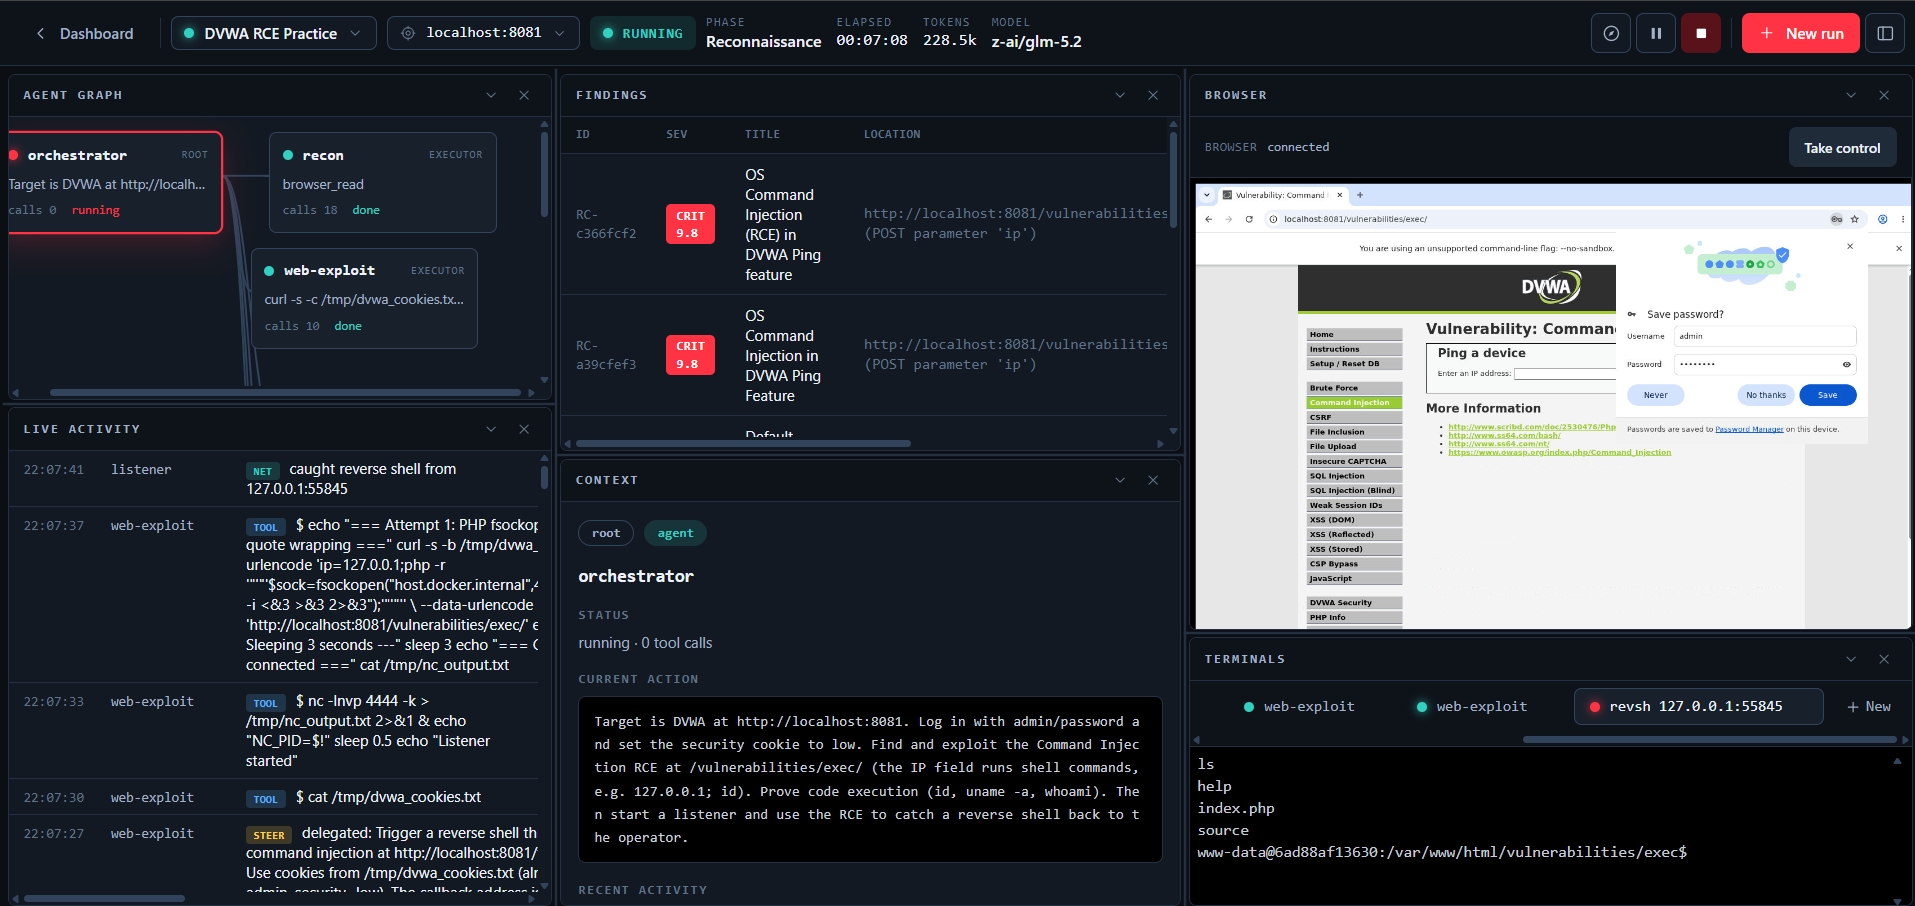
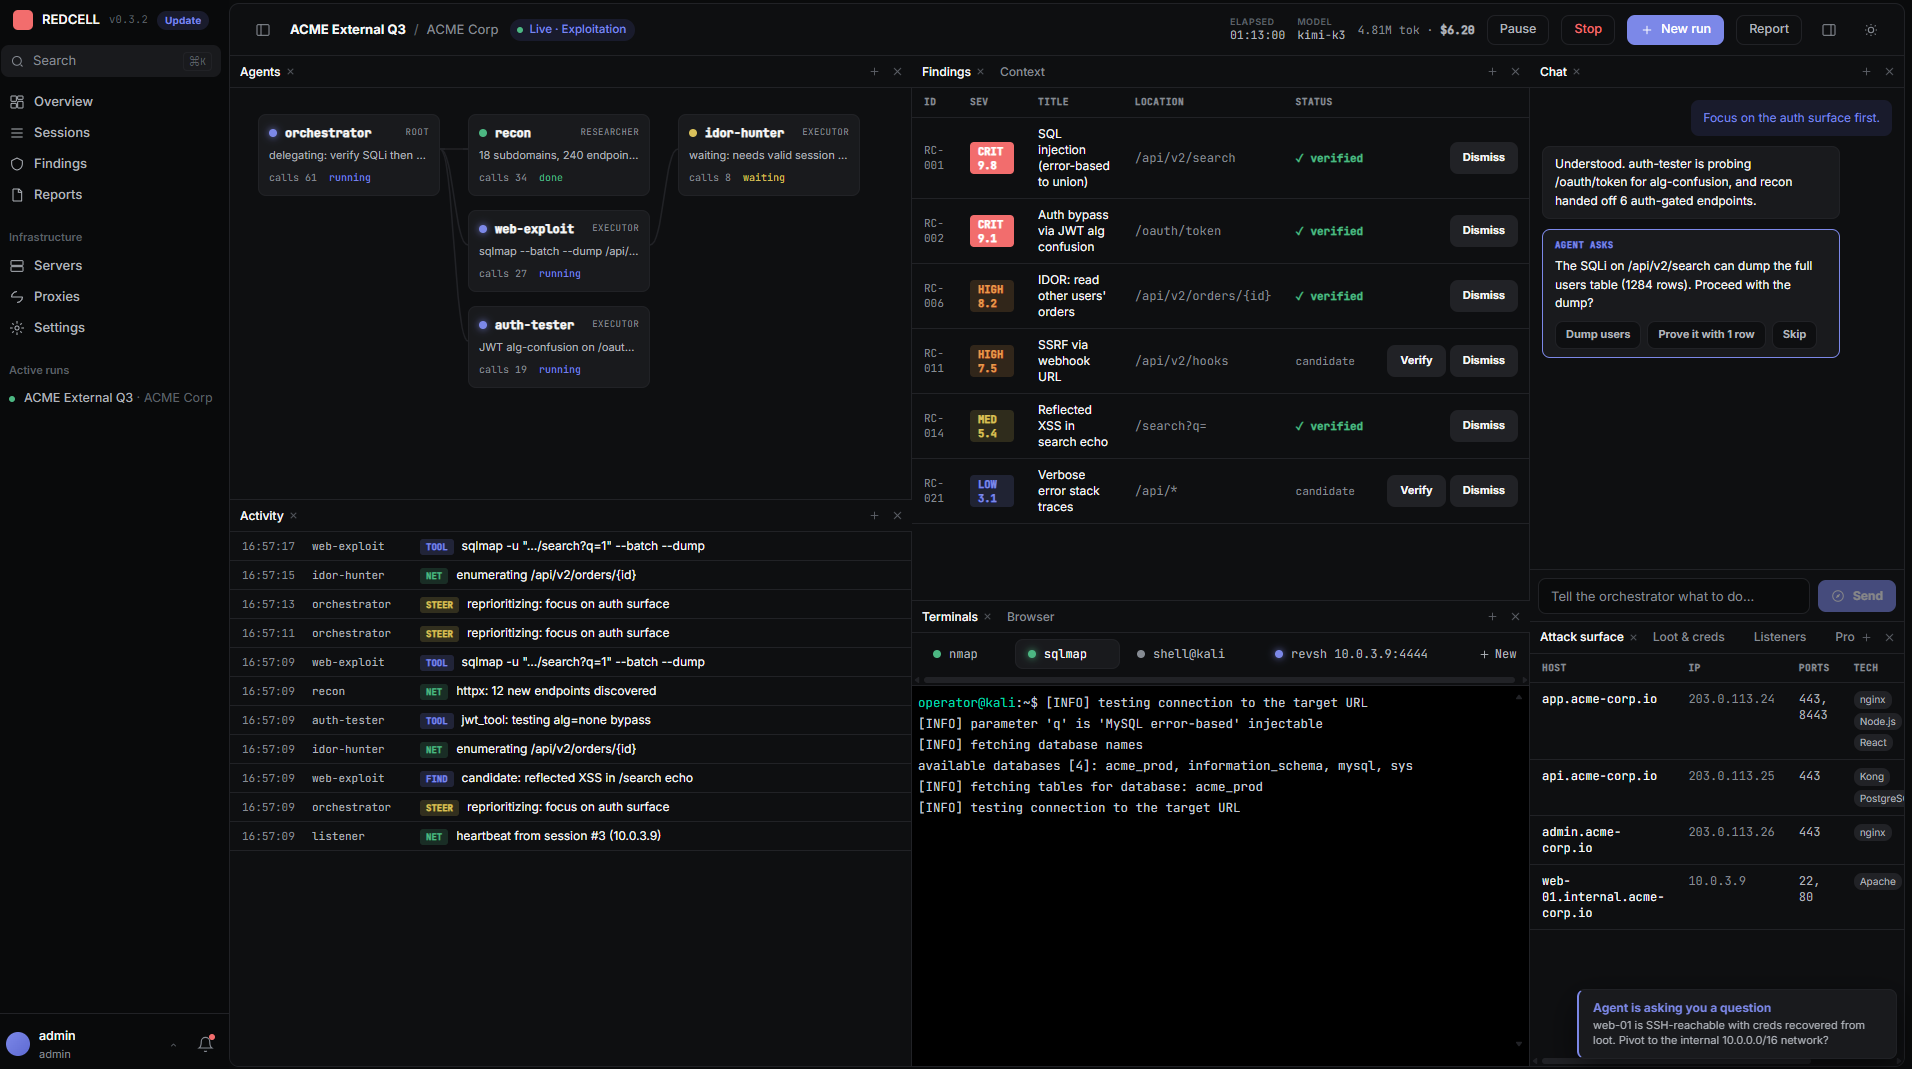
docs: refresh README console screenshot (#140)
Replace the outdated hero image with a current shot of the operator console and update the alt text to match.

diff --git a/README.md b/README.md
@@ -17,7 +17,7 @@
 </p>
 
 <p align="center">
-  <img src="images/in-action.png" alt="REDCELL operator console mid-run against DVWA: agent graph, critical RCE finding, the agent-driven browser, and a caught reverse shell" width="900">
+  <img src="images/in-action.png" alt="REDCELL operator console mid-run: the multi-agent graph, verified critical findings, live terminals with sqlmap, a caught reverse shell, and the agent asking the operator before it dumps a user table" width="900">
 </p>
 
 > [!WARNING]
